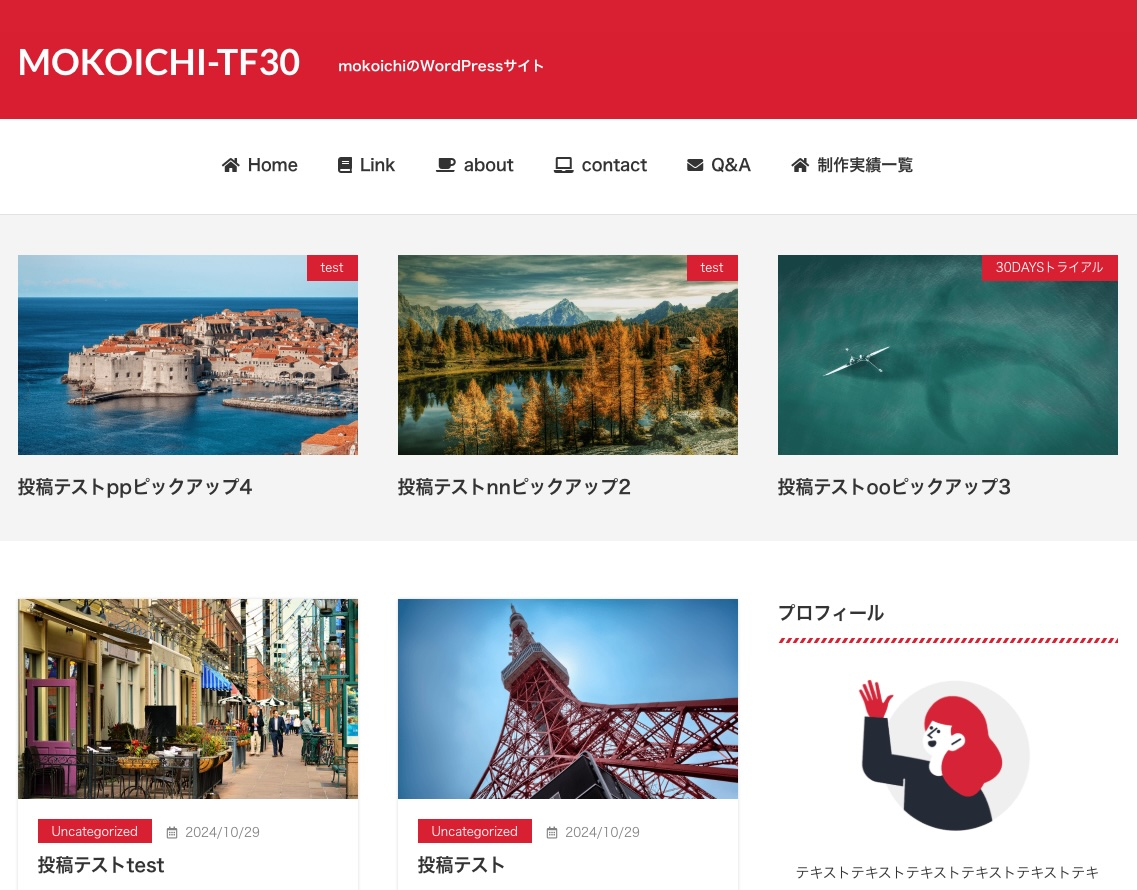
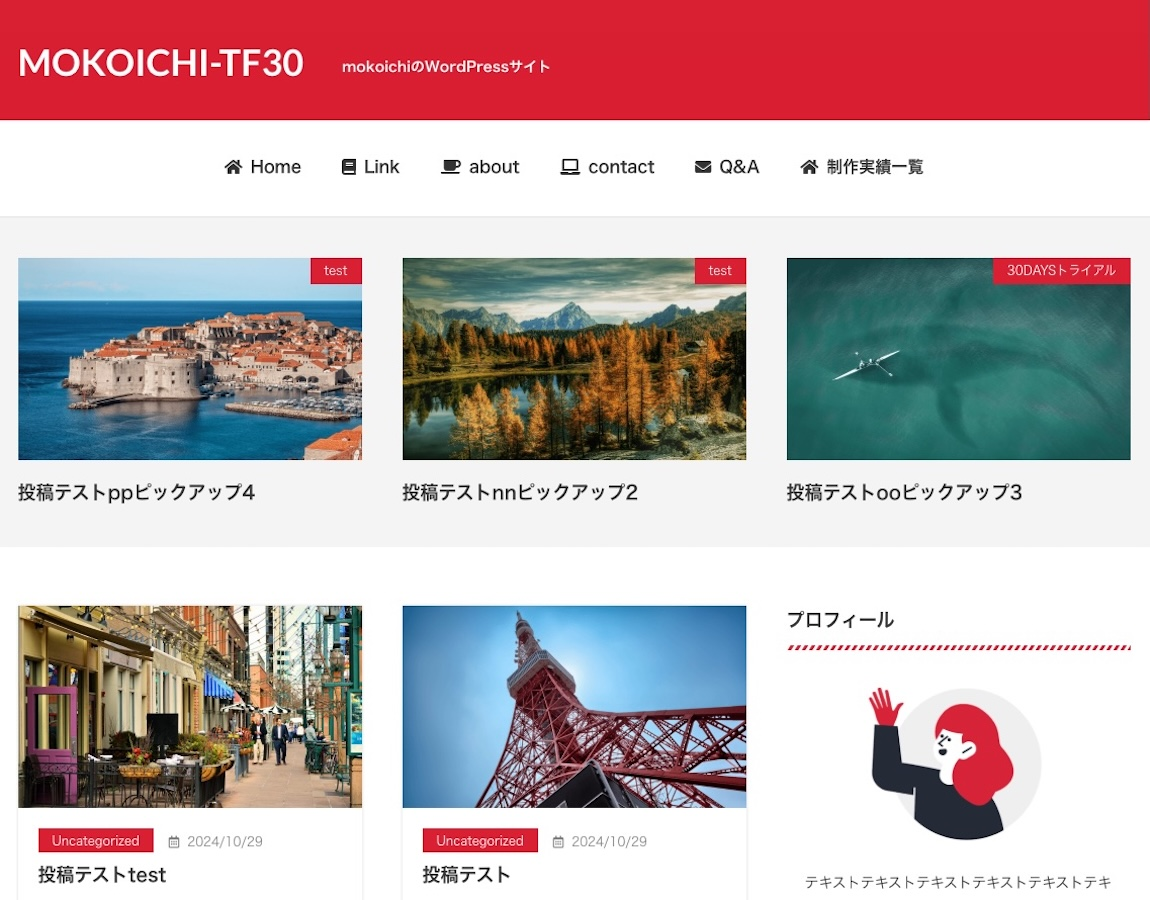
Update works images and related references

diff --git a/index.html b/index.html
@@ -114,7 +114,7 @@
 
         <div class="work-grid">
           <a class="work-item" href="http://mokoichi-tf30.ym19991124.com/" target="_blank" rel="noreferrer">
-            <img src="./image/works-img1.jpeg"
+            <img src="./image/works-img1.jpg"
               alt="コーポレートサイト" />
             <div class="work-label">コーポレートサイト</div>
           </a>
